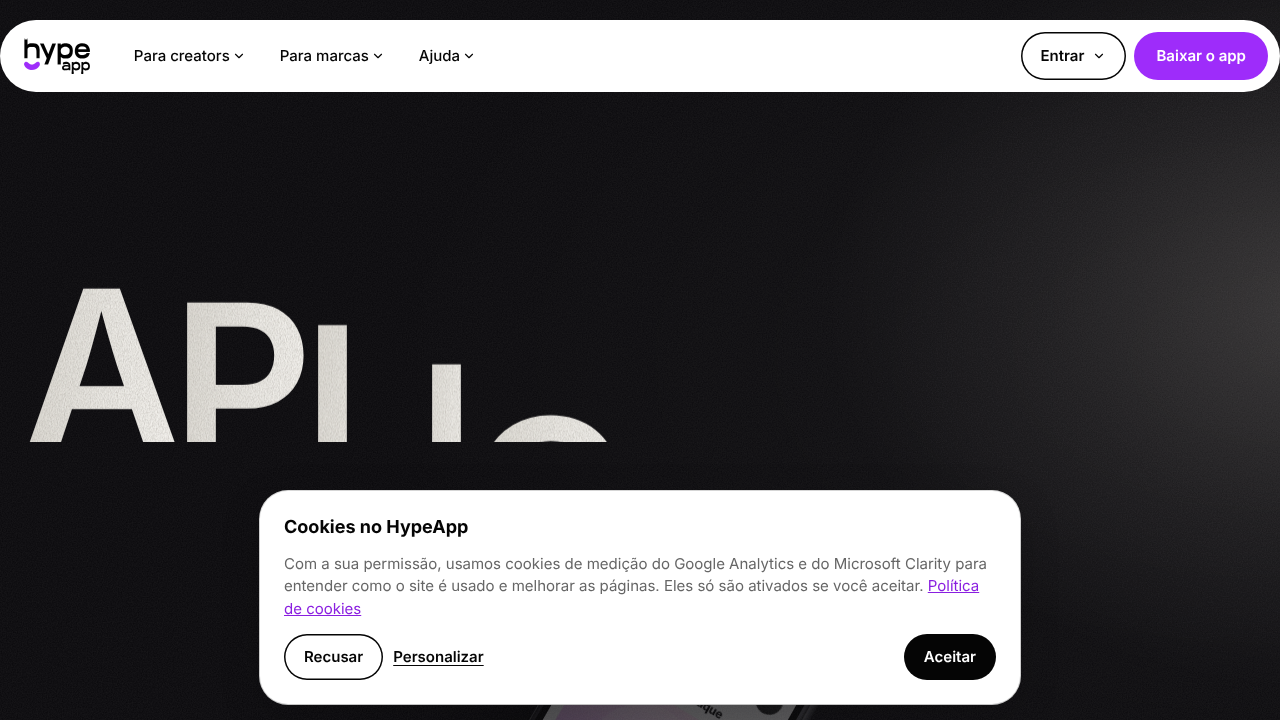
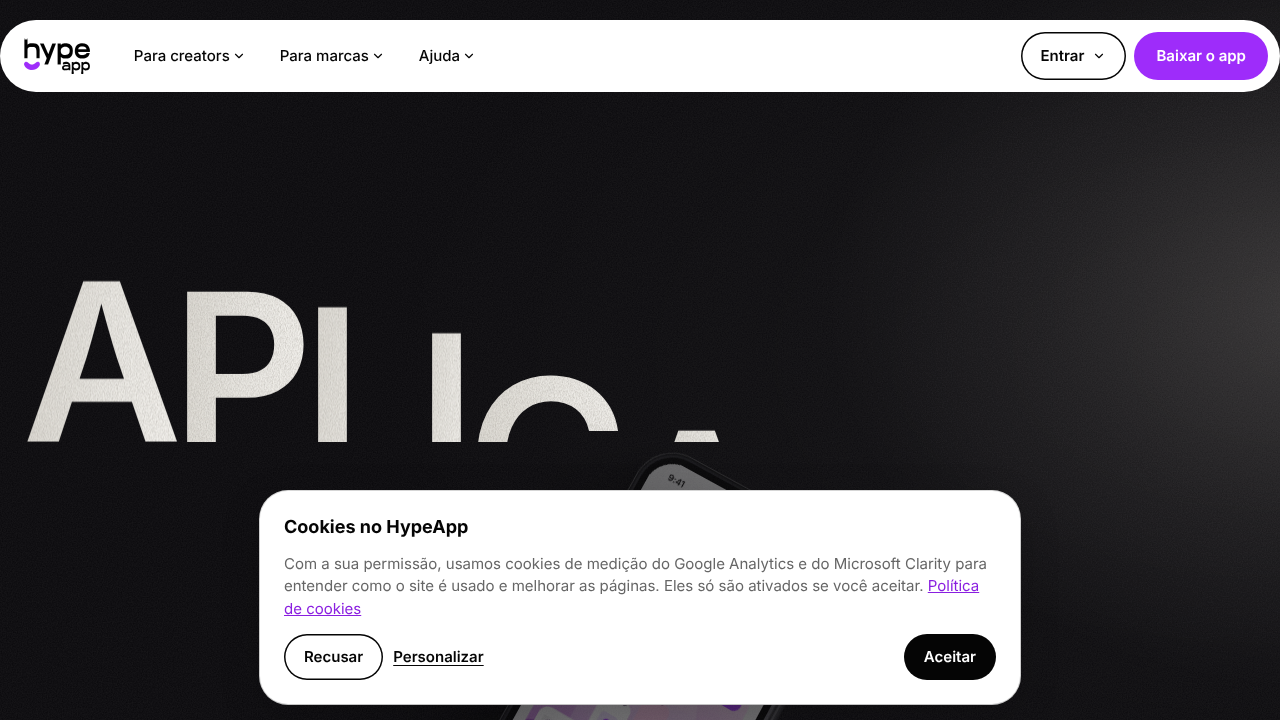
Home: esconde o iPhone da abertura (visibility) quando ele já sumiu, para o Safari do iPhone
Claude-Session: https://claude.ai/code/session_01MKExHZAmWTEd54rD5oPacf

diff --git a/assets/site.js b/assets/site.js
@@ -43,7 +43,7 @@ return[x,y];};var vai=function(ptr,el,root,dx,dy){var p=centro(el,root);ptr.styl
 else if(v.classList.contains('on')){v.classList.remove('on');v.classList.add('prev');}
 else v.classList.remove('prev');});};var aviso=function(root,txt){var t=$('[data-toast]',root);if(!t)return;if(txt){$('[data-toast-t]',t).textContent=txt;t.classList.add('on');}else t.classList.remove('on');};var DA=null;if(lsA)(function(){var R=lsA.firstElementChild,tap=$('[data-tap]',R),det=$('[data-v="detalhe"]',R);var btn=$('[data-alvo="participar"]',R),sts=$('[data-alvo="status"]',R),lista=$('.la-lista',R);var hl=$('[data-hl]',R),hli=$('[data-hli]',R),chips=$$('.la-chips > span[data-c]',R);var ta=$('.la-ta',R),typed=$('[data-type]',R),valor=$('[data-valor]',R);var TXT='Abro com a rotina da manh\u00e3, aplico o s\u00e9rum Glow em close e fecho com o resultado e a hashtag da campanha.';var chip=function(i){var c=chips[i];if(!c)return;hl.style.width=c.offsetWidth+'px';hl.style.transform='translate3d('+c.offsetLeft+'px,0,0)';hli.style.transform='translate3d('+(-c.offsetLeft)+'px,0,0)';lista.classList.toggle('ativas',i===1);};var estado=function(k){$$('.la-sk',R).forEach(function(s){s.classList.toggle('on',s.getAttribute('data-k')===k);});};var nav=function(on){lsA.classList.toggle('no-nav',!on);};var reset=function(){semTransicao(R,function(){trocaTela(R,'.la-v','descobrir');$$('.la-v',R).forEach(function(v){v.classList.remove('prev');});tap.classList.remove('on','press');btn.classList.remove('ok');det.classList.remove('sheet');typed.textContent='';ta.classList.remove('typing');estado('analise');chip(0);valor.classList.remove('up');aviso(R,'');nav(true);});};var dest=$('[data-alvo="destaque"]',R),env=$('[data-alvo="enviar"]',R);DA=Demo([[500,function(){semTransicao(tap,function(){vai(tap,dest,R,30,90);tap.classList.remove('on');});}],[560,function(){vai(tap,dest,R,0,40);}],[1250,function(){aperta(tap,dest);}],[1450,function(){tap.classList.remove('on');trocaTela(R,'.la-v','detalhe');nav(false);}],[2500,function(){vai(tap,btn,R,20,10);}],[3200,function(){aperta(tap,btn);btn.classList.add('ok');}],[3500,function(){aviso(R,'Inscri\u00e7\u00e3o enviada');tap.classList.remove('on');}],[4700,function(){aviso(R,'');trocaTela(R,'.la-v','campanhas');nav(true);}],[6300,function(){estado('roteiro');chip(1);aviso(R,'Sua inscri\u00e7\u00e3o foi aprovada');}],[7600,function(){aviso(R,'');vai(tap,sts,R,40,0);}],[8300,function(){aperta(tap,sts);}],[8500,function(){tap.classList.remove('on');det.classList.add('sheet');trocaTela(R,'.la-v','detalhe');nav(false);}],[9300,function(k){ta.classList.add('typing');typed.textContent=TXT.slice(0,Math.round(k*TXT.length));},2600],[12200,function(){vai(tap,env,R,10,6);}],[12900,function(){aperta(tap,env);ta.classList.remove('typing');}],[13100,function(){tap.classList.remove('on');det.classList.remove('sheet');aviso(R,'Roteiro enviado para aprova\u00e7\u00e3o');}],[14300,function(){aviso(R,'');trocaTela(R,'.la-v','campanhas');estado('aguarda');nav(true);}],[16200,function(){estado('concluida');chip(2);valor.classList.add('up');}],[16900,function(){valor.classList.remove('up');}],[19000,function(){trocaTela(R,'.la-v','descobrir');}]],19700,reset);})();var DP=null;if(lsP)(function(){var R=lsP.firstElementChild,ptr=$('[data-cur]',R);var card=$('[data-alvo="card"]',R),navC=$('[data-alvo="nav-criadores"]',R),navK=$('[data-alvo="nav-campanhas"]',R);var conv=$$('[data-conv]',R),geral=$('[data-geral]',R),mbar=$('[data-mbar]',R),mpct=$('[data-mpct]',R);var kps=$$('.lp-kp b[data-n]',R),ets=$$('[data-et]',R),acao=$('[data-acao]',R);var navOn=function(k){$$('[data-nav-k]',R).forEach(function(a){a.classList.toggle('on',a.getAttribute('data-nav-k')===k);});};var fmt=function(v,dec){return v.toFixed(dec).replace('.',',');};var conta=function(k){var e=eio(k);geral.textContent=Math.round(68*e)+'%';mpct.textContent=Math.round(68*e)+'%';mbar.style.transform='scaleX('+e.toFixed(3)+')';acao.textContent=String(Math.round(8*e));kps.forEach(function(b){var n=+b.getAttribute('data-n'),dec=+b.getAttribute('data-dec')||0;b.textContent=fmt(n*e,dec)+b.getAttribute('data-suf');});};var etapa=function(n){ets.forEach(function(e,i){e.classList.toggle('done',i<n);e.classList.toggle('cur',i===n);});};var reset=function(){semTransicao(R,function(){trocaTela(R,'.lp-v','campanhas');$$('.lp-v',R).forEach(function(v){v.classList.remove('prev');});navOn('campanhas');ptr.classList.remove('on','press');conv.forEach(function(c){c.classList.remove('ok');});conta(0);etapa(-1);aviso(R,'');});};reset();DP=Demo([[700,function(){semTransicao(ptr,function(){ptr.style.transform='translate3d(1500px,980px,0)';});}],[760,function(){vai(ptr,card,R,40,-20);}],[1700,function(){aperta(ptr,card);}],[1900,function(){trocaTela(R,'.lp-v','campanha');}],[2300,conta,1500],[2500,function(){etapa(0);}],[2850,function(){etapa(1);}],[3200,function(){etapa(2);}],[4700,function(){vai(ptr,navC,R,-40,0);}],[5400,function(){aperta(ptr,navC);navOn('criadores');}],[5600,function(){trocaTela(R,'.lp-v','criadores');}],[6600,function(){vai(ptr,conv[1],R,10,6);}],[7300,function(){aperta(ptr,conv[1]);conv[1].classList.add('ok');aviso(R,'Convite enviado para Beatriz Nunes');}],[8500,function(){vai(ptr,conv[3],R,10,6);}],[9200,function(){aperta(ptr,conv[3]);conv[3].classList.add('ok');aviso(R,'Convite enviado para Larissa Prado');}],[10500,function(){aviso(R,'');vai(ptr,navK,R,-40,0);}],[11200,function(){aperta(ptr,navK);navOn('campanhas');}],[11400,function(){trocaTela(R,'.lp-v','campanhas');}],[12300,function(){ptr.classList.remove('on');}]],13600,reset);})();var demoRaf=0,demoLast=0;var demoLoop=function(now){demoRaf=0;var dt=demoLast?Math.min(64,now-demoLast):16.7;demoLast=now;var vivo=onScreen&&!document.hidden;if(DA){if(vivo&&cur<0.012&&now-t0>2200)DA.tick(dt);else if(cur>0.25&&DA.t)DA.restart();}
 if(DP){if(vivo&&cur>0.985)DP.tick(dt);else if(cur<0.9&&DP.t)DP.restart();}
-if(vivo)demoRaf=requestAnimationFrame(demoLoop);else demoLast=0;};var demoKick=function(){if(!demoRaf){demoLast=0;demoRaf=requestAnimationFrame(demoLoop);}};document.addEventListener('visibilitychange',demoKick);var render=function(p,now){var q=seg(p,0.04,0.96);telas(q);var nar=window.innerWidth<760;var tx=eio(seg(q,0,0.18)),z=eio(seg(q,0,nar?0.3:0.5)),fade=nar?eio(seg(q,0.14,0.3)):seg(q,0.3,0.5);l1.style.opacity=String(1-tx);l1.style.transform=tx?y(-tx*40,'px'):'';AP.copy.style.opacity=String(1-tx);AP.copy.style.transform=tx?y(tx*30,'px'):'';AP.word.style.opacity=String(1-eio(seg(q,0.05,0.4)));AP.word.style.transform='translateY(-50%) scale('+(1+z*0.12).toFixed(4)+')';var fl=Math.sin((now-t0)/1000*1.25)*clamp((now-t0-1600)/1200)*(1-z);AP.dev.style.opacity=String(1-fade);AP.dev.style.transform='translate3d('+(-z*4).toFixed(2)+'vw,'+(fl*7-z*8*innerHeight/100).toFixed(2)+'px,0) scale('+(1+z*(nar?0.9:1.9)).toFixed(4)+')'+' rotateZ('+(21-z*15+fl*0.5).toFixed(2)+'deg) rotateY('+(-12+z*12).toFixed(2)+'deg) rotateX('+(6-z*6).toFixed(2)+'deg)';cue1.style.opacity=String(1-seg(q,0,0.12));var vis=q>(nar?0.32:0.3);plat.style.opacity=vis?'1':'0';l2.style.opacity=vis?'1':'0';if(vis){rise(PL.ch,q,nar?0.36:0.34,0.012,0.16);var m=eoq(seg(q,0.42,0.66));var L=eio(seg(q,0.58,0.88)),back=eio(seg(q,0.86,0.95));PL.dev.style.opacity=String(clamp(m*2.5));PL.dev.style.transform=y((1-m)*55,'vh')+' scale('+(0.9+0.1*L).toFixed(4)+')';lid.style.transform='rotateX('+(-90+96*L-6*back).toFixed(2)+'deg)';off.style.opacity=String(1-seg(q,0.84,0.93));sweep.style.transform='translate3d('+(-120+360*eio(seg(q,0.88,1))).toFixed(1)+'%,0,0)';rise(l2w,q,0.84,0.012,0.12);rise(PL.w,q,0.88,0.008,0.1);for(var i=0;i<PL.li.length;i++){var k=eoq(seg(q,0.9+i*0.02,1));PL.lt[i].style.transform=y((1-k)*200);PL.li[i].style.setProperty('--k',k.toFixed(3));}}
+if(vivo)demoRaf=requestAnimationFrame(demoLoop);else demoLast=0;};var demoKick=function(){if(!demoRaf){demoLast=0;demoRaf=requestAnimationFrame(demoLoop);}};document.addEventListener('visibilitychange',demoKick);var render=function(p,now){var q=seg(p,0.04,0.96);telas(q);var nar=window.innerWidth<760;var tx=eio(seg(q,0,0.18)),z=eio(seg(q,0,nar?0.3:0.5)),fade=nar?eio(seg(q,0.14,0.3)):seg(q,0.3,0.5);l1.style.opacity=String(1-tx);l1.style.transform=tx?y(-tx*40,'px'):'';AP.copy.style.opacity=String(1-tx);AP.copy.style.transform=tx?y(tx*30,'px'):'';AP.word.style.opacity=String(1-eio(seg(q,0.05,0.4)));AP.word.style.transform='translateY(-50%) scale('+(1+z*0.12).toFixed(4)+')';var fl=Math.sin((now-t0)/1000*1.25)*clamp((now-t0-1600)/1200)*(1-z);AP.dev.style.opacity=String(1-fade);AP.dev.style.visibility=fade>0.97?'hidden':'visible';AP.dev.style.transform='translate3d('+(-z*4).toFixed(2)+'vw,'+(fl*7-z*8*innerHeight/100).toFixed(2)+'px,0) scale('+(1+z*(nar?0.9:1.9)).toFixed(4)+')'+' rotateZ('+(21-z*15+fl*0.5).toFixed(2)+'deg) rotateY('+(-12+z*12).toFixed(2)+'deg) rotateX('+(6-z*6).toFixed(2)+'deg)';cue1.style.opacity=String(1-seg(q,0,0.12));var vis=q>(nar?0.32:0.3);plat.style.opacity=vis?'1':'0';l2.style.opacity=vis?'1':'0';if(vis){rise(PL.ch,q,nar?0.36:0.34,0.012,0.16);var m=eoq(seg(q,0.42,0.66));var L=eio(seg(q,0.58,0.88)),back=eio(seg(q,0.86,0.95));PL.dev.style.opacity=String(clamp(m*2.5));PL.dev.style.transform=y((1-m)*55,'vh')+' scale('+(0.9+0.1*L).toFixed(4)+')';lid.style.transform='rotateX('+(-90+96*L-6*back).toFixed(2)+'deg)';off.style.opacity=String(1-seg(q,0.84,0.93));sweep.style.transform='translate3d('+(-120+360*eio(seg(q,0.88,1))).toFixed(1)+'%,0,0)';rise(l2w,q,0.84,0.012,0.12);rise(PL.w,q,0.88,0.008,0.1);for(var i=0;i<PL.li.length;i++){var k=eoq(seg(q,0.9+i*0.02,1));PL.lt[i].style.transform=y((1-k)*200);PL.li[i].style.setProperty('--k',k.toFixed(3));}}
 cue2.style.opacity=String(seg(q,0.92,1));};var measure=function(){var r=hx.getBoundingClientRect();top=r.top+window.pageYOffset;dist=Math.max(1,hx.offsetHeight-window.innerHeight);};var read=function(){target=clamp((window.pageYOffset-top)/dist);};var loop=function(now){raf=0;var dt=last?Math.min(64,now-last):16.7;last=now;var d=target-cur,f=1-Math.pow(1-0.085,dt/16.7);cur=Math.abs(d)<0.0002?target:cur+d*f;render(cur,now);var floating=onScreen&&!document.hidden&&cur<0.06;if(cur!==target||floating)raf=requestAnimationFrame(loop);else last=0;};var kick=function(){if(!raf)raf=requestAnimationFrame(loop);};var lastY=window.pageYOffset,dir=0,snapT=0;var snap=function(){read();if(target<=0.015||target>=0.985)return;var to=Math.round(top+dist*(dir<0?0:1));try{window.scrollTo({top:to,behavior:'smooth'});}catch(e){window.scrollTo(0,to);}};hx.classList.add('hx-live');fitAll();if(window.ResizeObserver)[lsA,lsP].forEach(function(ls){if(ls)new ResizeObserver(fitAll).observe(ls);});measure();read();cur=target;t0=(window.performance&&performance.now())||0;if(cur>0.02)hx.classList.add('hx-skip');render(cur,t0);kick();window.addEventListener('scroll',function(){var yy=window.pageYOffset;if(yy!==lastY)dir=yy>lastY?1:-1;lastY=yy;read();kick();clearTimeout(snapT);snapT=setTimeout(snap,160);},{passive:true});window.addEventListener('resize',function(){measure();read();kick();});if(window.IntersectionObserver)new IntersectionObserver(function(es){onScreen=es[0].isIntersecting;if(onScreen){kick();demoKick();}}).observe(hx);demoKick();})();(function(){var hoje=new Date(),z=function(n){return(n<10?'0':'')+n;};$$('[data-dd]').forEach(function(el){var d=new Date(hoje.getFullYear(),hoje.getMonth(),hoje.getDate()+(+el.getAttribute('data-dd')));el.textContent=z(d.getDate())+'/'+z(d.getMonth()+1)+(el.hasAttribute('data-ano')?'/'+d.getFullYear():'');});})();$$('[data-cf]').forEach(function(cf){var sec=cf.closest('section')||document;var track=$('.cf-track',cf),cards=$$('.cf-card',cf),dots=$$('.cf-dot',cf);var vids=cards.map(function(c){return $('video',c);});var prev=$('[data-cf-prev]',sec),next=$('[data-cf-next]',sec),pauseBtn=$('[data-cf-pause]',cf);var idx=0,paused=false,onScreen=false,prog=false,progT=null,scrollT=null;var canPlay=function(){return!reduced&&!paused&&onScreen&&!cf.hidden&&!document.hidden;};var autoT=null,hold=false,AUTO=2800;var auto=function(){clearTimeout(autoT);if(!canPlay()||hold)return;autoT=setTimeout(function(){if(!canPlay()||hold)return;if(idx<cards.length-1){setActive(idx+1,true);return;}
 var tabs=$$('[role="tab"]',sec),cur=tabs.filter(function(t){return t.getAttribute('aria-controls')===cf.id;})[0];var nx=tabs[(tabs.indexOf(cur)+1)%tabs.length],other=nx&&document.getElementById(nx.getAttribute('aria-controls'));if(!nx||other===cf){setActive(0,true);return;}
 if(other&&other._cfReset)other._cfReset();nx.click();},AUTO);};cf._cfReset=function(){idx=0;};track.addEventListener('mouseenter',function(){hold=true;clearTimeout(autoT);});track.addEventListener('mouseleave',function(){hold=false;auto();});track.addEventListener('focusin',function(){hold=true;clearTimeout(autoT);});track.addEventListener('focusout',function(e){if(!track.contains(e.relatedTarget)){hold=false;auto();}});var sync=function(){auto();cf.classList.toggle('is-playing',canPlay());vids.forEach(function(v,j){if(!v)return;if(j===idx&&canPlay()){if(v.preload!=='auto')v.preload='auto';var p=v.play();if(p&&p.catch)p.catch(function(){});}else if(!v.paused){v.pause();}});};var visibleFully=function(c){var t=track.getBoundingClientRect(),r=c.getBoundingClientRect();return r.left>=t.left-2&&r.right<=t.right+2;};var scrollToCard=function(i){var c=cards[i];if(!c||visibleFully(c))return;var left=c.getBoundingClientRect().left-track.getBoundingClientRect().left+track.scrollLeft;prog=true;clearTimeout(progT);progT=setTimeout(function(){prog=false;},700);track.scrollTo({left:left,behavior:reduced?'auto':'smooth'});};var setActive=function(i,scroll){i=Math.max(0,Math.min(cards.length-1,i));idx=i;cards.forEach(function(c,j){c.classList.toggle('is-active',j===i);});dots.forEach(function(d,j){if(j===i)d.setAttribute('aria-current','step');else d.removeAttribute('aria-current');});if(!cf.hidden){if(prev)prev.disabled=i===0;if(next)next.disabled=i===cards.length-1;}

diff --git a/fonte/site/assets/site.js b/fonte/site/assets/site.js
@@ -947,6 +947,8 @@
       AP.word.style.transform = 'translateY(-50%) scale(' + (1 + z * 0.12).toFixed(4) + ')';
       var fl = Math.sin((now - t0) / 1000 * 1.25) * clamp((now - t0 - 1600) / 1200) * (1 - z);
       AP.dev.style.opacity = String(1 - fade);
+      /* Safari no iPhone pode ignorar a opacidade do aparelho em 3D (preserve-3d): esconde de vez quando ja sumiu */
+      AP.dev.style.visibility = fade > 0.97 ? 'hidden' : 'visible';
       AP.dev.style.transform = 'translate3d(' + (-z * 4).toFixed(2) + 'vw,' + (fl * 7 - z * 8 * innerHeight / 100).toFixed(2) + 'px,0) scale(' + (1 + z * (nar ? 0.9 : 1.9)).toFixed(4) + ')' +
         ' rotateZ(' + (21 - z * 15 + fl * 0.5).toFixed(2) + 'deg) rotateY(' + (-12 + z * 12).toFixed(2) + 'deg) rotateX(' + (6 - z * 6).toFixed(2) + 'deg)';
       cue1.style.opacity = String(1 - seg(q, 0, 0.12));

diff --git a/404.html b/404.html
@@ -123,7 +123,7 @@
     </div>
   </div>
 </footer>
-<script src="/assets/site.js?v=a0769eea" defer></script>
+<script src="/assets/site.js?v=87ba1851" defer></script>
 </body>
 <!--/email_off-->
 </html>

diff --git a/app/index.html b/app/index.html
@@ -122,7 +122,7 @@
     </div>
   </div>
 </footer>
-<script src="/assets/site.js?v=a0769eea" defer></script>
+<script src="/assets/site.js?v=87ba1851" defer></script>
 </body>
 <!--/email_off-->
 </html>

diff --git a/baixar/index.html b/baixar/index.html
@@ -143,7 +143,7 @@
     </div>
   </div>
 </footer>
-<script src="/assets/site.js?v=a0769eea" defer></script>
+<script src="/assets/site.js?v=87ba1851" defer></script>
 </body>
 <!--/email_off-->
 </html>

diff --git a/blog/index.html b/blog/index.html
@@ -143,7 +143,7 @@
     </div>
   </div>
 </footer>
-<script src="/assets/site.js?v=a0769eea" defer></script>
+<script src="/assets/site.js?v=87ba1851" defer></script>
 </body>
 <!--/email_off-->
 </html>

diff --git a/blog/media-kit-link-ou-pdf/index.html b/blog/media-kit-link-ou-pdf/index.html
@@ -206,7 +206,7 @@
     </div>
   </div>
 </footer>
-<script src="/assets/site.js?v=a0769eea" defer></script>
+<script src="/assets/site.js?v=87ba1851" defer></script>
 </body>
 <!--/email_off-->
 </html>

diff --git a/blog/permuta-recebido-ou-campanha-paga/index.html b/blog/permuta-recebido-ou-campanha-paga/index.html
@@ -212,7 +212,7 @@
     </div>
   </div>
 </footer>
-<script src="/assets/site.js?v=a0769eea" defer></script>
+<script src="/assets/site.js?v=87ba1851" defer></script>
 </body>
 <!--/email_off-->
 </html>

diff --git a/blog/quanto-cobrar-por-reels/index.html b/blog/quanto-cobrar-por-reels/index.html
@@ -181,7 +181,7 @@
     </div>
   </div>
 </footer>
-<script src="/assets/site.js?v=a0769eea" defer></script>
+<script src="/assets/site.js?v=87ba1851" defer></script>
 </body>
 <!--/email_off-->
 </html>

diff --git a/contato/enviado/index.html b/contato/enviado/index.html
@@ -123,7 +123,7 @@
     </div>
   </div>
 </footer>
-<script src="/assets/site.js?v=a0769eea" defer></script>
+<script src="/assets/site.js?v=87ba1851" defer></script>
 </body>
 <!--/email_off-->
 </html>

diff --git a/contato/index.html b/contato/index.html
@@ -123,7 +123,7 @@
     </div>
   </div>
 </footer>
-<script src="/assets/site.js?v=a0769eea" defer></script>
+<script src="/assets/site.js?v=87ba1851" defer></script>
 </body>
 <!--/email_off-->
 </html>

diff --git a/contato/marcas/index.html b/contato/marcas/index.html
@@ -139,7 +139,7 @@
     </div>
   </div>
 </footer>
-<script src="/assets/site.js?v=a0769eea" defer></script>
+<script src="/assets/site.js?v=87ba1851" defer></script>
 </body>
 <!--/email_off-->
 </html>
